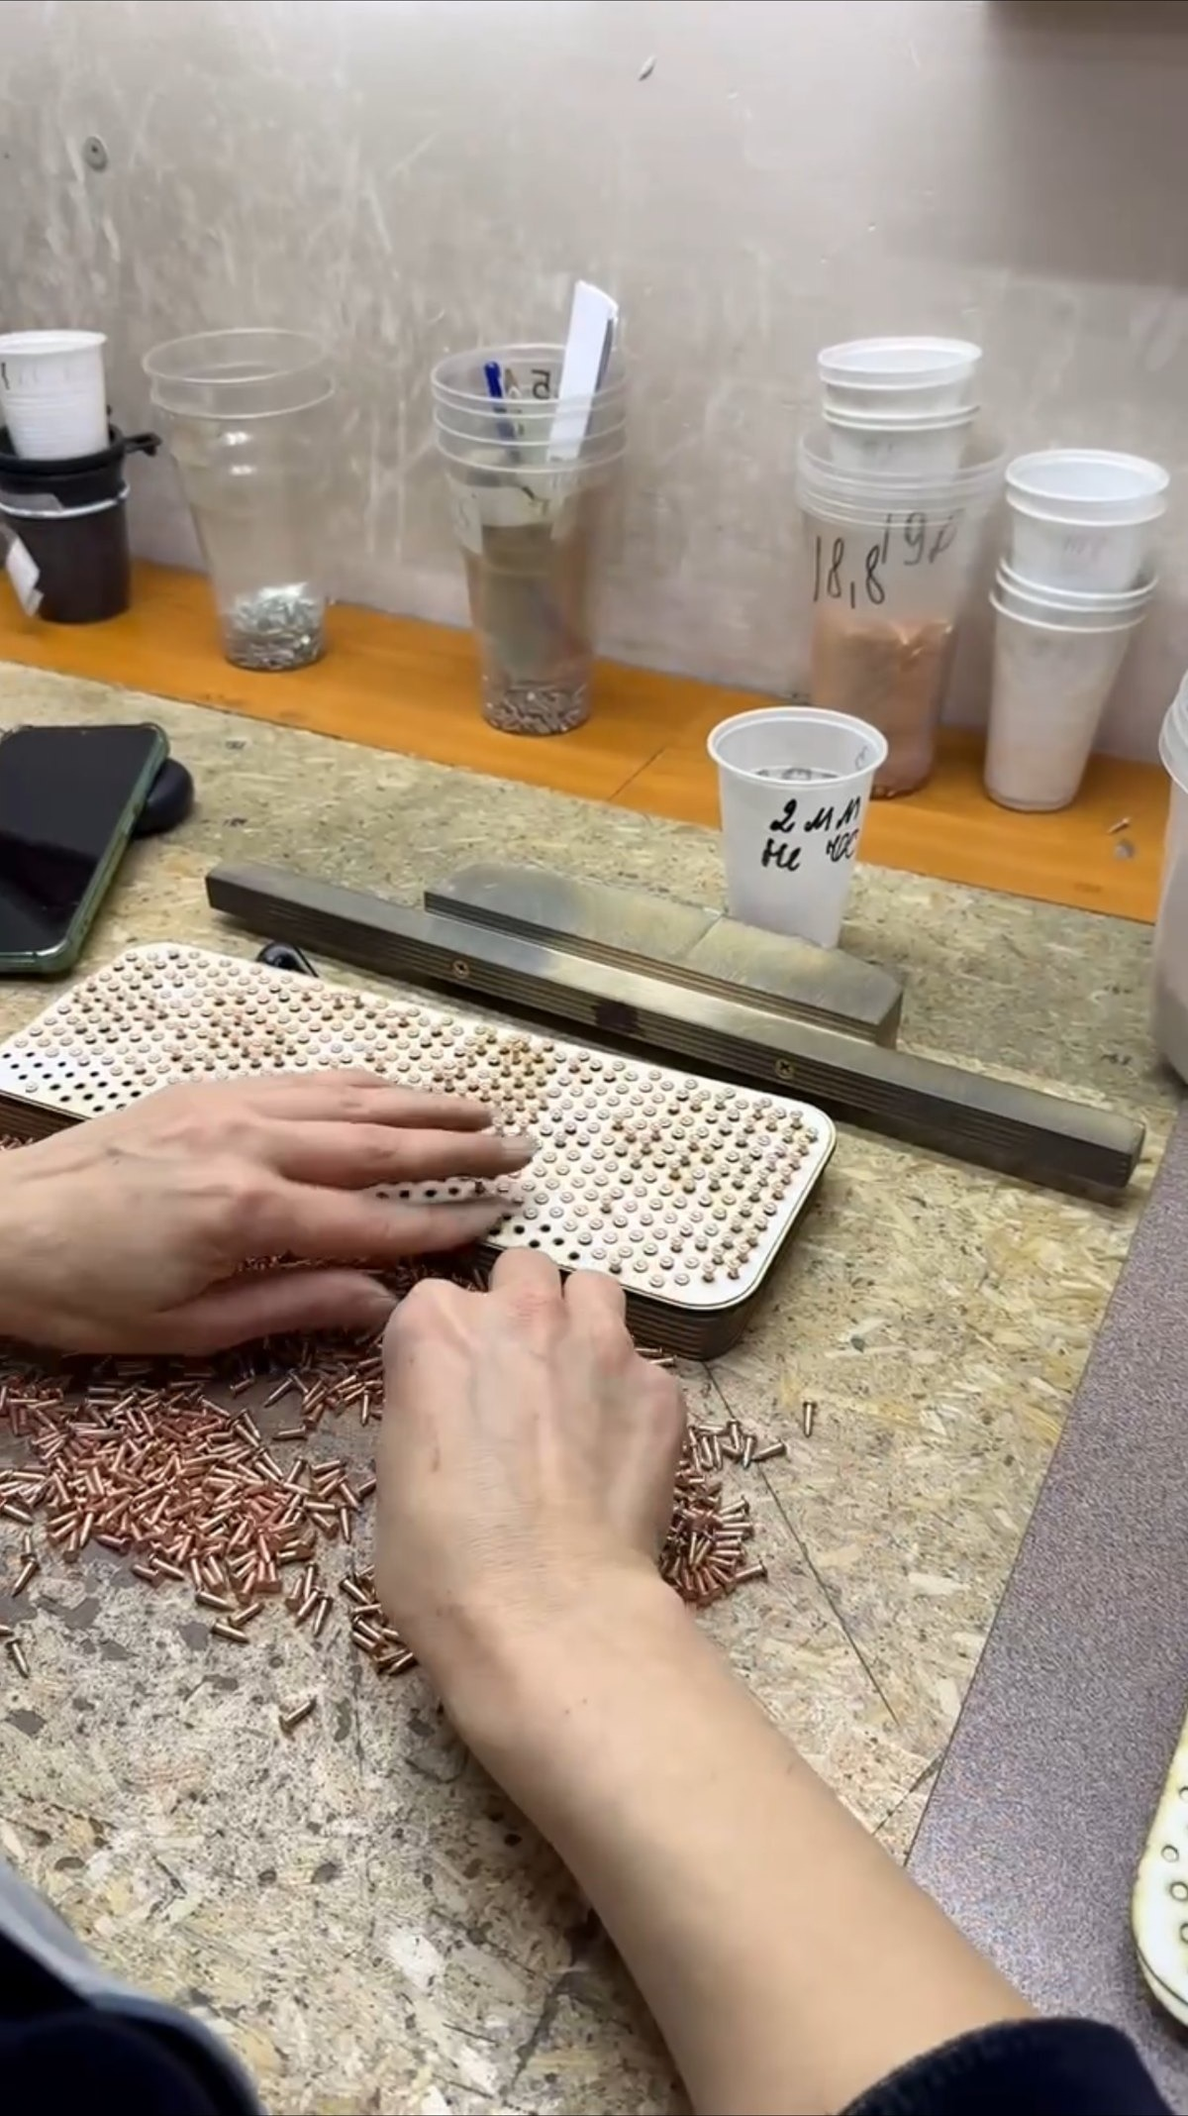
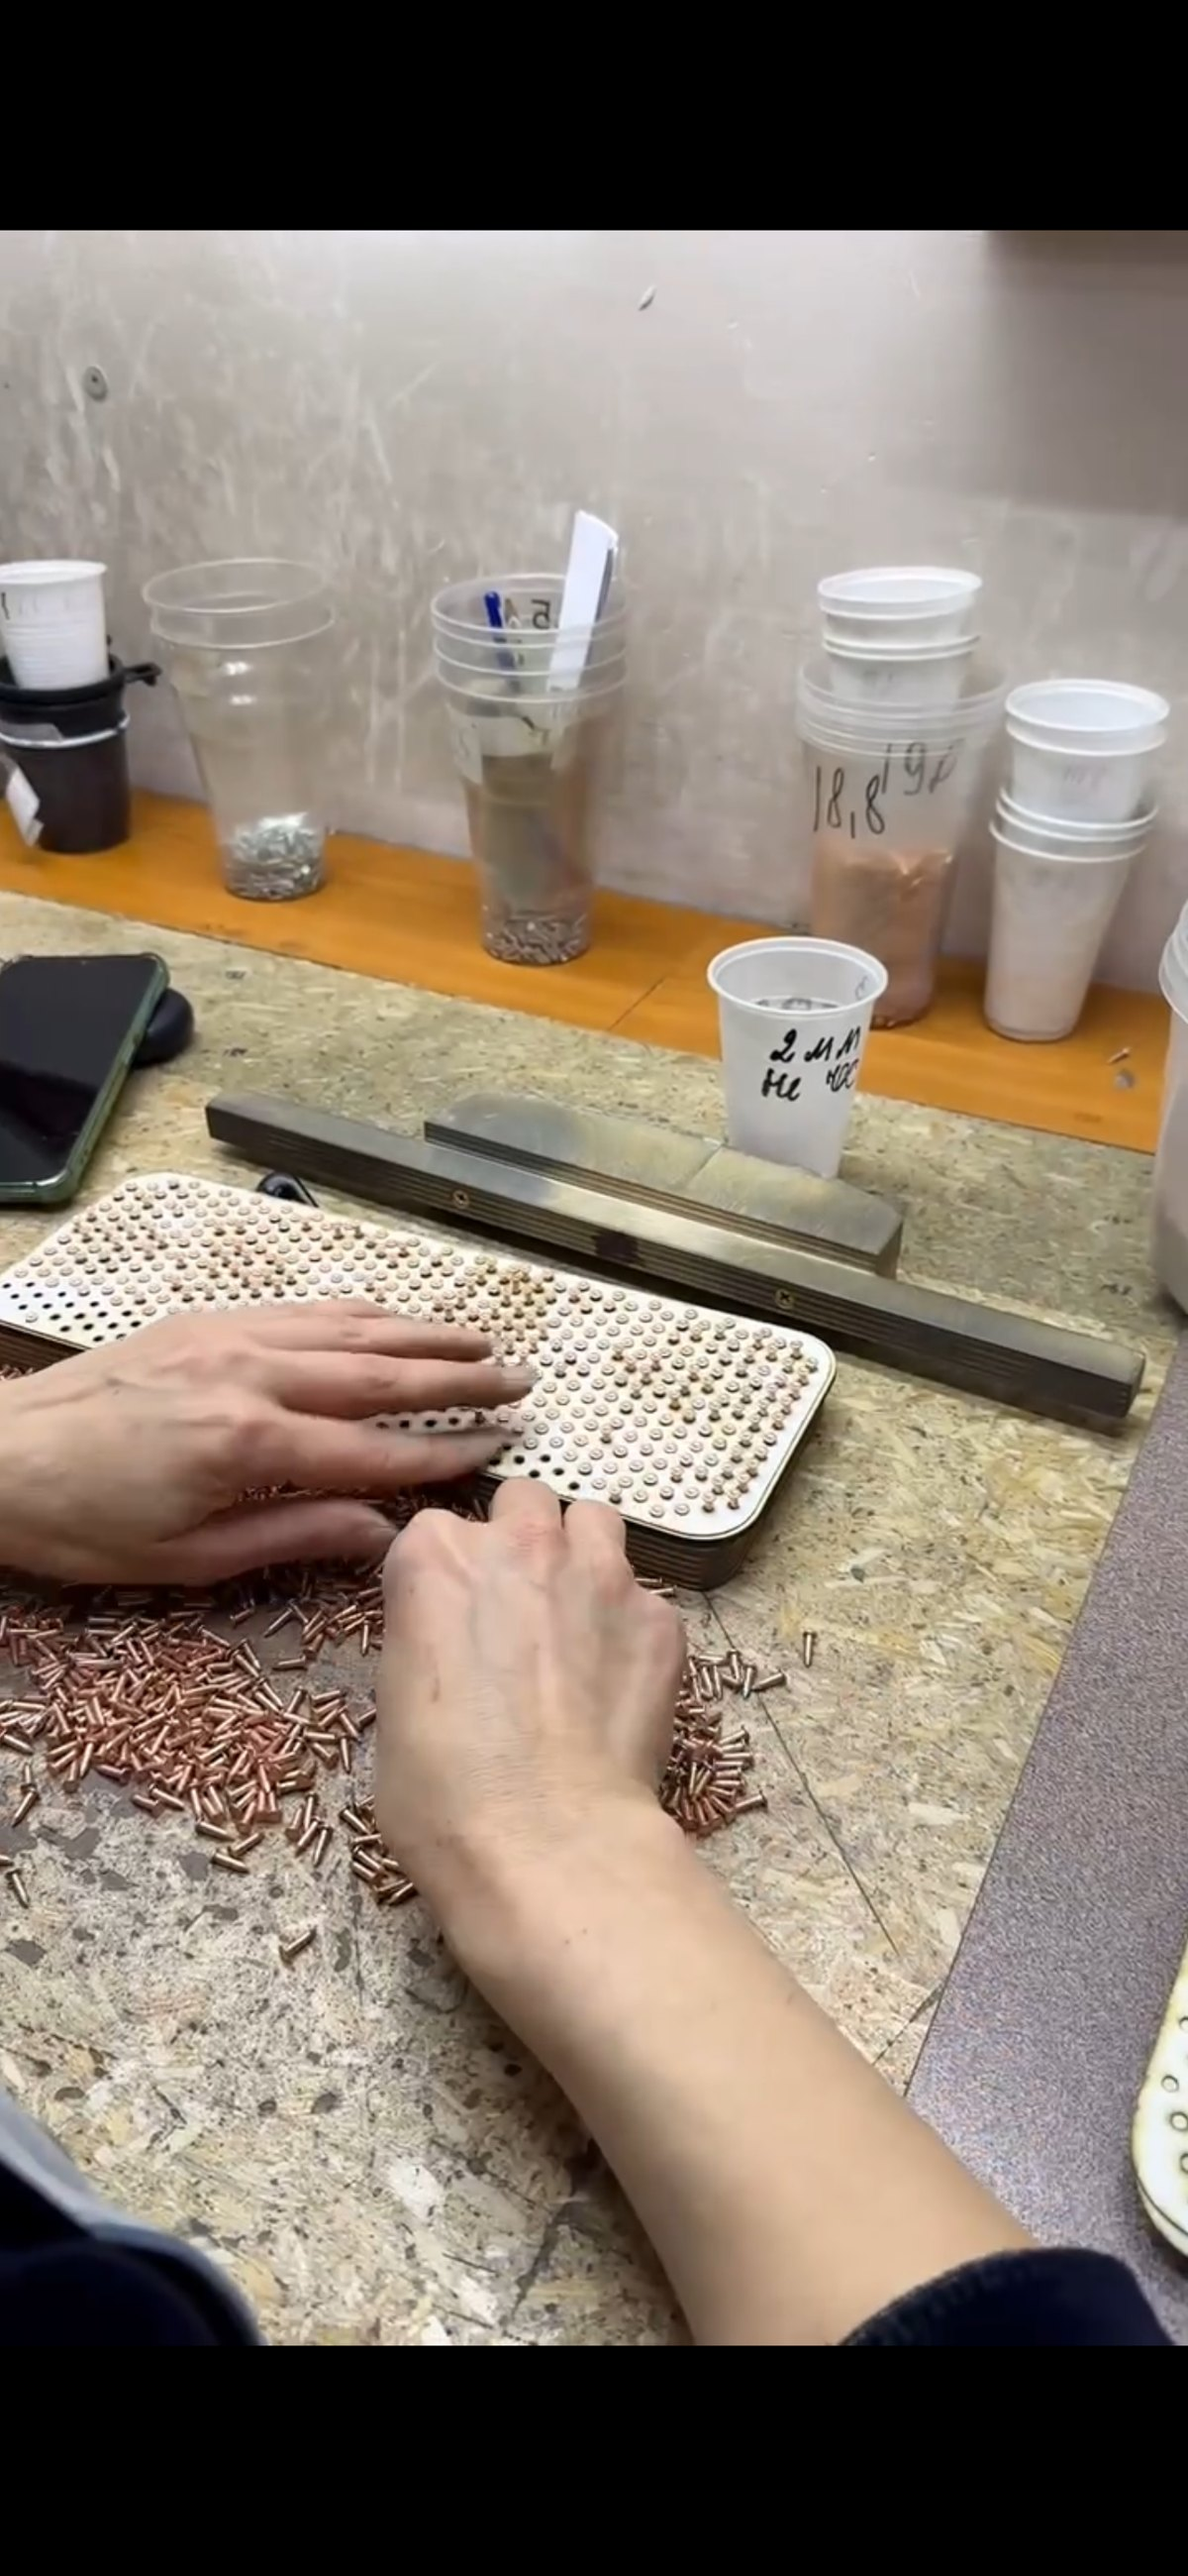
Update success page, Vercel config and two section photos
Carries over local edits to success.html, vercel.json, and the fitting-nails and man section photos (recompressed).

diff --git a/success.html b/success.html
@@ -3,40 +3,32 @@
 <head>
   <meta charset="UTF-8" />
   <meta name="viewport" content="width=device-width, initial-scale=1.0" />
-  <meta name="robots" content="noindex" />
-  <title>Thank you · Agni Boards</title>
-  <!-- Meta Pixel Code -->
-  <script>
-  !function(f,b,e,v,n,t,s)
-  {if(f.fbq)return;n=f.fbq=function(){n.callMethod?
-  n.callMethod.apply(n,arguments):n.queue.push(arguments)};
-  if(!f._fbq)f._fbq=n;n.push=n;n.loaded=!0;n.version='2.0';
-  n.queue=[];t=b.createElement(e);t.async=!0;
-  t.src=v;s=b.getElementsByTagName(e)[0];
-  s.parentNode.insertBefore(t,s)}(window, document,'script',
-  'https://connect.facebook.net/en_US/fbevents.js');
-  fbq('init', '1137586585519080');
-  fbq('track', 'PageView');
-  fbq('track', 'Purchase', {value: 3200, currency: 'THB'});
-  </script>
-  <noscript><img height="1" width="1" style="display:none"
-  src="https://www.facebook.com/tr?id=1137586585519080&ev=PageView&noscript=1"
-  /></noscript>
-  <!-- End Meta Pixel Code -->
+  <title>Test payment complete · Agni Boards</title>
   <style>
     body { margin: 0; min-height: 100vh; display: grid; place-items: center; background: #FAF5EE; color: #5C2A10; font-family: 'DM Sans', system-ui, sans-serif; padding: 2rem 1rem; }
     main { max-width: 480px; text-align: center; }
     h1 { font-size: 2rem; font-weight: 600; margin: 0 0 .75rem; }
     p { line-height: 1.7; color: rgba(28,12,4,.8); }
+    code { font-size: .8rem; word-break: break-all; }
     a { color: #5C2A10; border-bottom: 1px solid rgba(92,42,16,.3); }
     a:hover { color: #E8621A; }
   </style>
 </head>
 <body>
   <main>
-    <h1>Thank you for your order</h1>
-    <p>Your payment is confirmed. We'll be in touch with delivery details soon.</p>
-    <p><a href="/landing">Back to the shop</a></p>
+    <h1>Test payment complete</h1>
+    <p>This was a Stripe test-mode payment. No real money was charged.</p>
+    <p id="session" hidden>Session: <code></code></p>
+    <p><a href="/">Back to the main page</a></p>
   </main>
+  <script>
+    // Show the Checkout Session ID that Stripe put in the URL (test data only)
+    var id = new URLSearchParams(window.location.search).get('session_id');
+    if (id) {
+      var el = document.getElementById('session');
+      el.querySelector('code').textContent = id;
+      el.hidden = false;
+    }
+  </script>
 </body>
 </html>
